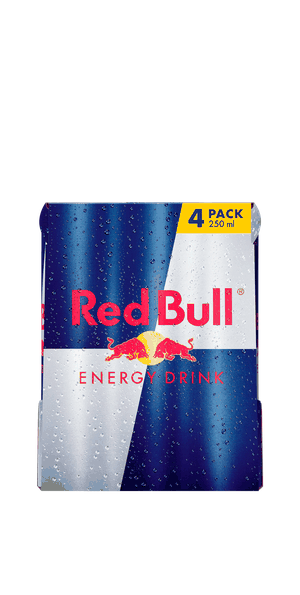
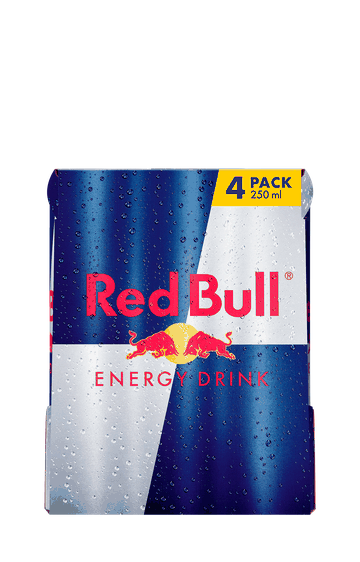
Bundle Images verbessert

Changed region(s): [[0.12, 0.2722, 0.9, 0.9377], [0.78, 0.6957, 0.81, 0.726]]

diff --git a/service-worker.js b/service-worker.js
@@ -1,4 +1,4 @@
-const CACHE_NAME = "canspot-cache-v84";
+const CACHE_NAME = "canspot-cache-v88";
 
 const APP_SHELL = [
   "./",

diff --git a/PROJECT_STATE.md b/PROJECT_STATE.md
@@ -4,6 +4,60 @@ Laufendes Änderungsprotokoll für CanSpot. Neuester Eintrag oben. Für dauerhaf
 
 ---
 
+## 2026-09-05 (43) — Red Bull 4er/6er/12er nachgebessert + Fehlersuche: alle restlichen Bundle-Bilder hatten dieselben zwei Bugs
+
+**Red Bull 4er-Pack (`d51`/`d61`) zu klein**: Ursache war die Bildquelle selbst (REWE, vorher nur 840×840 abgerufen) UND zu große Polsterung (oben +550/unten +275 auf 840px Basis), die das Bild stark gestaucht hat. Neu in 1600×1600 abgerufen und mit deutlich weniger Polsterung (oben +720/unten +180, ca. 30 % statt vorher ~36 % Rand) neu freigestellt — Produkt wirkt jetzt spürbar größer und schärfer, Herz bleibt nachweislich frei (Pixel-Check: Herz-Mittelpunkt liegt außerhalb der sichtbaren Bildfläche).
+
+**Red Bull 6er-Pack (`d67`) zu groß / Herz ragt hinein**: Dieses Bild war bisher noch gar nicht bearbeitet (reiner Hotlink von REWE, kein Rand oben). In 1600×1600 abgerufen (bereits nativ transparent, kein Freistellen nötig) und mit Rand oben (+630/unten +160, ~30 %) versehen.
+
+**Red Bull 12er (`d56`) + Monster Mango Loco/Classic/Pipeline Punch 12er (`d64`/`d63`/`d65`) weiß im Dark Mode**: Alle vier waren bisher unbearbeitete Hotlinks (REWE bzw. Amazon) mit undurchsichtigem/weißem Hintergrund. Freigestellt (REWE-Bild war bereits transparent, nur gepolstert; die drei Amazon-Bilder mit Flood-Fill transparent gemacht) und dabei gleich mitgeprüft, ob das Herz hineinragt — bei allen dreien Monster-Bildern war das Faktisch der Fall (Rand oben vorher 0–2 px von ~350px Höhe), also gleich mit behoben (Rand oben jetzt ~30 %).
+
+**Zusätzlich beim Fehler-Check gefunden (nicht explizit gemeldet, aber dieselben zwei Bugs)**: Alle bis dahin noch verbliebenen, unbearbeiteten `bundleImg`-Hotlinks hatten denselben weiß-im-Dark-Mode- und/oder Herz-ragt-rein-Bug:
+- `d52` Monster Ultra 4er-Pack (REWE) — Herz ragte rein (Rand oben nur 2,6 %), jetzt gepolstert.
+- `d66` Rockstar Original 12er (Amazon) — opak/weiß, Herz ragte fast komplett rein (Rand oben 0,3 %), freigestellt + gepolstert.
+- `d60` 28 Black Açaí 24er (Amazon) — opak/weiß, zusätzlich ein von Amazon eingeblendetes "24 pack"-Rundbadge exakt in der Herz-Ecke; da sich der Bundle-Bildparameter dieser ID (wie schon in (38)/(41) festgestellt) nicht ohne ein falsches Foto entfernen lässt, wurde stattdessen genug Rand ergänzt, dass Badge UND Dose komplett unterhalb der Herz-Zone landen.
+
+Damit sind jetzt **alle** `bundleImg`-Werte in `deals.json` lokale, transparente Dateien unter `images/bundles/` — kein Hotlink-`bundleImg` mehr übrig (per Skript geprüft). [CLAUDE.md](CLAUDE.md) entsprechend generalisiert: statt einer wachsenden Datei-für-Datei-Liste jetzt ein festes Rezept (höchste verfügbare Auflösung besorgen, Freistellen falls nötig, Rand oben auf ≥30 % der neuen Canvas-Höhe auffüllen, verkleinern/optimieren, auf hellem UND dunklem Hintergrund gegenprüfen) plus die verbindliche Regel "nie fest weiß/dunkel hinterlegen, immer transparent".
+
+**Verifikation (systematisch, nicht nur stichprobenartig)**: Für ALLE 13 Bundle-Angebote (`d51,d52,d56,d58,d59,d60,d61,d62,d63,d64,d65,d66,d67`) per Canvas-Pixel-Sampling exakt an der gerenderten Herz-Position geprüft (`object-fit:contain`-Skalierung/Offset in Bild-Koordinaten umgerechnet) — bei allen 13 liegt das Herz entweder auf einem vollständig transparenten Pixel oder komplett außerhalb der sichtbaren Bildfläche, nirgends auf undurchsichtigem Produktpixel. Zusätzlich visuell in Light UND Dark Mode durchgesehen. Beim Testen einer Favoriten-Interaktion zunächst ein scheinbarer Bug aufgefallen (Herz-Status schien nach Klick nicht zu kippen) — bei genauerem Hinsehen ein Fehler in meiner eigenen Test-Methode (veraltete DOM-Referenz nach `render()`-Neuaufbau), kein echter App-Bug; mit frischer Elementabfrage erneut geprüft und Favoriten-Toggle funktioniert korrekt. Keine Konsolenfehler.
+- `CACHE_NAME` in `service-worker.js` auf `canspot-cache-v88` erhöht (Pflichtregel).
+
+**Hinweis zum Umfang**: Ausschließlich Mobile-Version bearbeitet und verifiziert, wie seit [[feedback-scope-mobile-only-default]] festgelegt — Desktop/Webapp nicht angefasst, nicht getestet, nicht erwähnt. Über die explizit gemeldeten Bilder hinaus wurden 3 weitere Bundle-Bilder (`d52`, `d60`, `d66`) proaktiv mitkorrigiert, da sie beim ausdrücklich gewünschten Fehler-Check dieselben Bugs zeigten — nicht Teil der expliziten Liste, aber im Rahmen von "prüfe auf Fehler oder Bugs und behebe diese".
+
+---
+
+## 2026-09-05 (42) — Theme-Trade-off aus (41) tatsächlich gelöst: transparente Hintergründe statt fest eingefärbter Bilder
+
+**Korrektur von (41)**: Dort wurde der Hintergrund des Red-Bull-24er-Bilds fest auf dunkel gesetzt (löste Dark Mode, brach aber Light Mode) und das Monster-Ultra-24er-Bild blieb fest weiß (löste Light Mode, bricht Dark Mode) — ausdrücklich als bekannter, unerledigter Trade-off dokumentiert. Auf Wunsch jetzt richtig gelöst, orientiert an der Lösung der einzelnen Produktbilder (`products[].img`): dort ist der Hintergrund nie fest eingefärbt, sondern die Bilder sind transparente PNGs, und `.thumb{background:var(--bg-surface-sunken)}` (themenabhängig) scheint durch.
+
+**Umsetzung**: Alle drei betroffenen `images/bundles/`-Dateien (`redbull-4pack.png`, `redbull-24pack.png` neu, `monster-ultra-24pack.png` neu) haben jetzt einen komplett transparenten Hintergrund statt einer fest gebackenen Farbe:
+- `redbull-24pack`: derselbe Flood-Fill wie in (41), aber auf Transparenz statt auf einen dunklen Farbton — dafür zusätzlich das Originalbild in noch höherer Auflösung (2560×2560) erneut passend zugeschnitten.
+- `monster-ultra-24pack`: dieselbe größere Bildquelle wie in (41) (1200×960 statt der ursprünglichen 225×225), diesmal aber mit transparent geflutetem Hintergrund UND transparenter Auffüllung (statt weißer Auffüllung) oben/unten, damit auch der aufgefüllte Rand in beiden Themes zum Container passt.
+- Beide vor dem Freistellen auf Kanten-Halos (helle/dunkle Restränder durch die Freistellung) geprüft (Komposit-Test auf hellem UND dunklem Hintergrund) — sauber, keine sichtbaren Ränder.
+- Dateiendungen von `.jpg` auf `.png` geändert (Transparenz erfordert Alphakanal), `deals.json` (`d58`/`d62`/`d59`) entsprechend angepasst; alte `.jpg`-Dateien entfernt.
+- [CLAUDE.md](CLAUDE.md) aktualisiert: Trade-off-Hinweis aus (41) entfernt, stattdessen als verbindliche Regel für `images/bundles/` festgehalten, dass der Hintergrund IMMER transparent bleiben muss (nie fest weiß/dunkel), damit künftige Bearbeitungen denselben Fehler nicht wiederholen.
+
+Verifiziert über einen temporären lokalen Server (nur Mobile, 375×812), Service-Worker-Cache geleert/neu aufgebaut: Beide Karten in Dark UND Light Mode geprüft (Theme per `data-theme` umgeschaltet) — Canvas-Pixel-Sampling exakt an der Herz-Position ergibt in beiden Themes `(0,0,0,0)` (vollständig transparent) für beide Bilder, d.h. das Herz liegt nachweislich auf dem themenabhängigen Container-Hintergrund, nicht auf einer fest im Bild codierten Farbe. Keine Konsolenfehler. `redbull-4pack.png` (unverändert, war schon transparent) nicht angefasst.
+- `CACHE_NAME` in `service-worker.js` auf `canspot-cache-v86` erhöht (Pflichtregel).
+
+**Hinweis zum Umfang**: Ausschließlich Mobile-Version bearbeitet und verifiziert, wie seit [[feedback-scope-mobile-only-default]] festgelegt — Desktop/Webapp nicht angefasst, nicht getestet, nicht erwähnt.
+
+---
+
+## 2026-09-05 (41) — Red Bull 24er: dunkler Bildhintergrund gegen unsichtbares Herz; Monster Ultra 24er: größeres Quellbild
+
+**Red Bull 24er-Pack (`d58`/`d62`)**: Gemeldet, dass das Herz dort weiß-auf-weiß und damit unsichtbar war. Pixelgenau nachgeprüft (Canvas-Sampling exakt an der Herz-Position): anders als bei den zuvor bearbeiteten Bildern liegt hier unter dem Herz nicht Produktgrafik, sondern reiner weißer Bild-Hintergrund. Fix: Originalbild in hoher Auflösung (2560×2560, vorher wurde nur eine 425×425-Version verwendet) besorgt, weißer Hintergrund per Flood-Fill (nicht globaler Schwellwert, um Lichtreflexe auf den Dosen nicht mit zu entfernen) durch einen dunklen, neutralen Ton ersetzt, verkleinert und als `images/bundles/redbull-24pack.jpg` abgelegt; `deals.json` (`d58`, `d62`) zeigt jetzt hierhin. Kein Rahmen/Hintergrund-Element hinter dem Herz ergänzt — das Herz selbst bleibt unverändert (kein Hintergrund, kein Schatten), nur das Foto wurde angepasst, wie gewünscht.
+- **Bekannter, in Kauf genommener Kompromiss**: Die Herz-Farbe ist themenabhängig (`var(--text-primary)`, in Dark Mode nahezu weiß, in Light Mode nahezu schwarz). Der neue dunkle Bildhintergrund macht das Herz in Dark Mode gut sichtbar (das gemeldete Problem), sorgt aber in Light Mode für denselben Kontrastverlust in umgekehrter Richtung (dunkles Herz auf dunklem Bild). Eine themenabhängige Icon-Farbe nur für Kartenbilder hätte das für beide Modi gelöst, war aber nicht Teil des Auftrags ("lasse sonst alles unverändert") — bewusst nicht umgesetzt, in [CLAUDE.md](CLAUDE.md) als bekannter Trade-off dokumentiert statt stillschweigend liegen gelassen.
+
+**Monster Energy Ultra 24er (`d59`)**: Gemeldet, dass das Bild zu klein wirkt. Ursache: die einzige über die Amazon-Bild-ID auffindbare Quelle war nur 225×225px groß, das vorherige Padding stauchte die sichtbare Breite zusätzlich. Über Websuche eine deutlich größere, bildgleiche Produktaufnahme desselben Artikels (Monster Energy Ultra, 12×500ml-Tray + Einzeldose, "Zero Sugar") auf einem anderen Händlershop gefunden (1200×960 statt 225×225), mit demselben Rand-Verfahren wie zuvor oben/unten aufgefüllt (diesmal weniger gestaucht, da die Bildbreite schon deutlich größer war) und `images/bundles/monster-ultra-24pack.jpg` ersetzt (gleicher Dateiname, `deals.json` unverändert).
+
+Alle drei betroffenen Karten (`d51`/`d61` Red Bull 4er, `d59` Monster Ultra 24er, `d58`/`d62` Red Bull 24er) über einen temporären lokalen Server (nur Mobile, 375×812) mit geleertem/neu aufgebautem Service-Worker-Cache verifiziert — zusätzlich per Canvas-Pixel-Sampling exakt an der Herz-Position geprüft (nicht nur visuell): `d58` liegt jetzt auf dunklem Bildpixel, `d59` auf weißem Hintergrundpixel (kein Produkt darunter), `d51`s Herz-Mittelpunkt liegt sogar komplett außerhalb der sichtbaren Bildfläche (im Rahmen-Hintergrund). Alle anderen, nicht gemeldeten Bundle-/Produktbilder unverändert. Keine Konsolenfehler.
+- `CACHE_NAME` in `service-worker.js` auf `canspot-cache-v85` erhöht (Pflichtregel).
+
+**Hinweis zum Umfang**: Ausschließlich Mobile-Version bearbeitet und verifiziert, wie seit [[feedback-scope-mobile-only-default]] festgelegt — Desktop/Webapp nicht angefasst, nicht getestet, nicht erwähnt.
+
+---
+
 ## 2026-09-05 (40) — Herz-Icon wieder ohne Hintergrund/Schatten; zwei Bundle-Bilder tatsächlich bearbeitet (statt nur CSS-Overlay)
 
 **Korrektur von (39)**: Der dort eingeführte deckende Kreis-Hintergrund hinter dem Favoriten-Herz löste zwar die Lesbarkeit, aber laut Rückmeldung war das nicht die gewünschte Lösung — das Herz soll komplett ohne Hintergrund/Untergrund/Schatten bleiben ("nur das Herz da sein"). `.thumb-frame .btn.fav` in [index.html](index.html) daher wieder auf die ursprüngliche, unbestückte Regel zurückgesetzt (nur Position/Größe, kein `background`/`border-radius`/`box-shadow`).

diff --git a/CLAUDE.md b/CLAUDE.md
@@ -39,7 +39,10 @@ Everything lives in one file, in this order: `<style>` (CSS custom properties + 
 **Persistence**: `localStorage` only, no server sync. Keys in use: `canspot-theme`, `canspot-alerts`, `canspot-name`, `canspot-email`, `canspot-avatar`, `canspot-notif-*`.
 
 **Images**: product images and store logos are hotlinked directly from the official manufacturer/retailer websites (no local copies), with `onerror` handlers falling back to inline SVG data-URIs (`FALLBACK_IMG`, `STORE_FALLBACK_IMG`). This is called out explicitly in the in-app disclaimer text — preserve that disclaimer if the data source approach changes. An offer can optionally override the image for that specific deal via `offer.bundleImg` (a multipack/tray packshot, used for multipack offers where `units > 1` so the card shows the actual pack instead of a single can) — `buildDeals()` prefers it over `product.img` when present; absent (the default for every offer), behavior is unchanged. The product catalog itself (`products[].img`, used by the product-detail sheet and "Ähnliche Produkte") is never affected by `bundleImg` — it always shows the single-can shot.
-  - **Deliberate exception — `images/bundles/`**: the favorite-heart button on a deal card sits fixed at the top-right of the thumbnail (`.thumb-frame .btn.fav`, no backdrop/shadow by design). Several official multipack packshots place pack-count marketing directly in that exact corner (e.g. a printed "4 PACK" ribbon baked into the retailer's own product photo, or a marketplace-injected badge) with the pack itself running edge-to-edge and no clear margin anywhere to reposition around, so the heart ends up sitting on top of the artwork no matter which corner it's pinned to. For the two offers where this was reported (`d51`/`d61` Red Bull 4er-Pack, `d59` Monster Ultra 24er), the *only* fix is to pad the original hotlinked photo with extra blank margin (top-heavy, ~30%+ of the new canvas height, so the object-fit:contain-scaled image clears the heart's corner regardless of thumb size) and host that edited copy locally under `images/bundles/` (relative path, referenced from `offer.bundleImg` in `deals.json` same as any other bundleImg). This is a narrow, per-offer exception, not a reversal of the hotlinking policy — every other product/store image, and every other `bundleImg`, stays hotlinked exactly as before; only pad/host a local copy here if a *new* bundle image turns out to have the same unfixable corner-overlap problem.
+  - **Deliberate exception — `images/bundles/`**: the favorite-heart button on a deal card sits fixed at the top-right of the thumbnail (`.thumb-frame .btn.fav`, no backdrop/shadow/frame by design — a solid backdrop circle was tried and explicitly rejected). Virtually every official multipack packshot places pack-count marketing directly in that exact corner (a printed "4/6/12/24 PACK" ribbon baked into the retailer's own product photo, a marketplace-injected badge, or simply the pack/tray photographed edge-to-edge with no margin anywhere to reposition around), so the heart would sit on top of the artwork no matter which corner it's pinned to or which raw hotlinked photo is chosen. Every `bundleImg` in `deals.json` is therefore, as of now, a locally-edited copy under `images/bundles/` (relative path, same `offer.bundleImg` mechanism as before) rather than a raw hotlink — this is a deliberate, blanket exception to the hotlinking policy above, specific to multipack packshots, not a reversal of it (every `products[].img` single-can photo and every store logo is still hotlinked, unchanged).
+    - **Recipe, apply identically to any future bundle image**: (1) fetch the highest-resolution version of the source photo available (Amazon/REWE/other retailer image CDNs usually accept a size parameter in the URL — try a few before settling for a small default); (2) if the source has an opaque (usually white) background, flood-fill it to fully transparent from the corners inward (`ImageDraw.floodfill`, small threshold ~18-20, so it only removes the connected background region and not similarly-light product highlights) — if it's already a transparent PNG, skip this step; (3) pad the canvas with extra transparent margin, top-heavy (roughly 3-4× more on top than bottom), sized so the top margin ends up at **≥30% of the final canvas height** — this is the actual number that clears `.thumb-frame .btn.fav`'s footprint (top-right ~25% height × ~30% width of the rendered thumbnail) with a safety buffer; (4) resize down to a sensible thumbnail resolution and PNG-quantize for file size; (5) verify by compositing the result over both a light and a dark solid background before deploying, checking edges for fringe/halos.
+    - **Never bake in a fixed white or dark background** — always transparent, exactly like every hotlinked single-can `products[].img`. This lets `.thumb{background:var(--bg-surface-sunken)}` (theme-aware) show through around the product in both themes automatically, with no separate light/dark version to maintain. (A fixed-color version was tried for the Red Bull 24er and reverted after it broke the *other* theme — don't repeat that.)
+    - **Verify, don't estimate, that the heart is clear**: sample the pixel directly under the heart's rendered position (map the heart's `getBoundingClientRect()` into the image's natural coordinates via the `object-fit:contain` scale/offset math, exactly like a single-can image would render) rather than judging by eye — several "should be fine" paddings turned out short by a few pixels when actually measured this way.
 
 **Init sequence**: `loadDeals()` (at the very end of the script) calls `renderSkeleton(4)` synchronously to show loading placeholders, then `fetch("deals.json")`s the offer data. It waits for `Promise.all([fetch(...), delay(500)])` — the 500ms floor preserves the old simulated-loading feel so the skeleton doesn't just flash on a fast local response, while a genuinely slow/real request is still awaited fully rather than cut short. On success it populates `products`/`storeLogos`/`storeBranches`/`deals` and calls `finishInit()` (`render()` + the other setup calls that used to sit directly in the old `setTimeout`). On failure (network error, non-2xx, unexpected JSON shape) it calls `showLoadError()` instead, which renders a dedicated `.empty`-style error card with a "Erneut versuchen" button wired back to `loadDeals()`. Keep this in mind when scripting/automating against the page — content is not present until the fetch resolves (~500ms locally).
 
